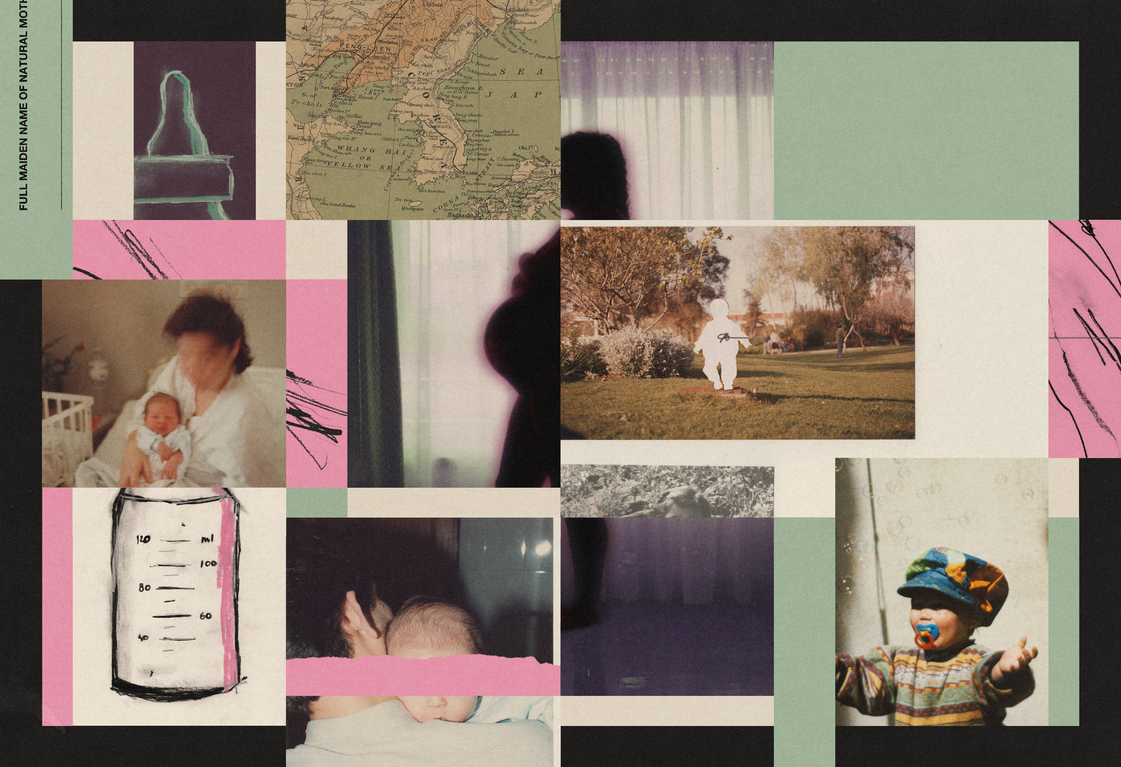
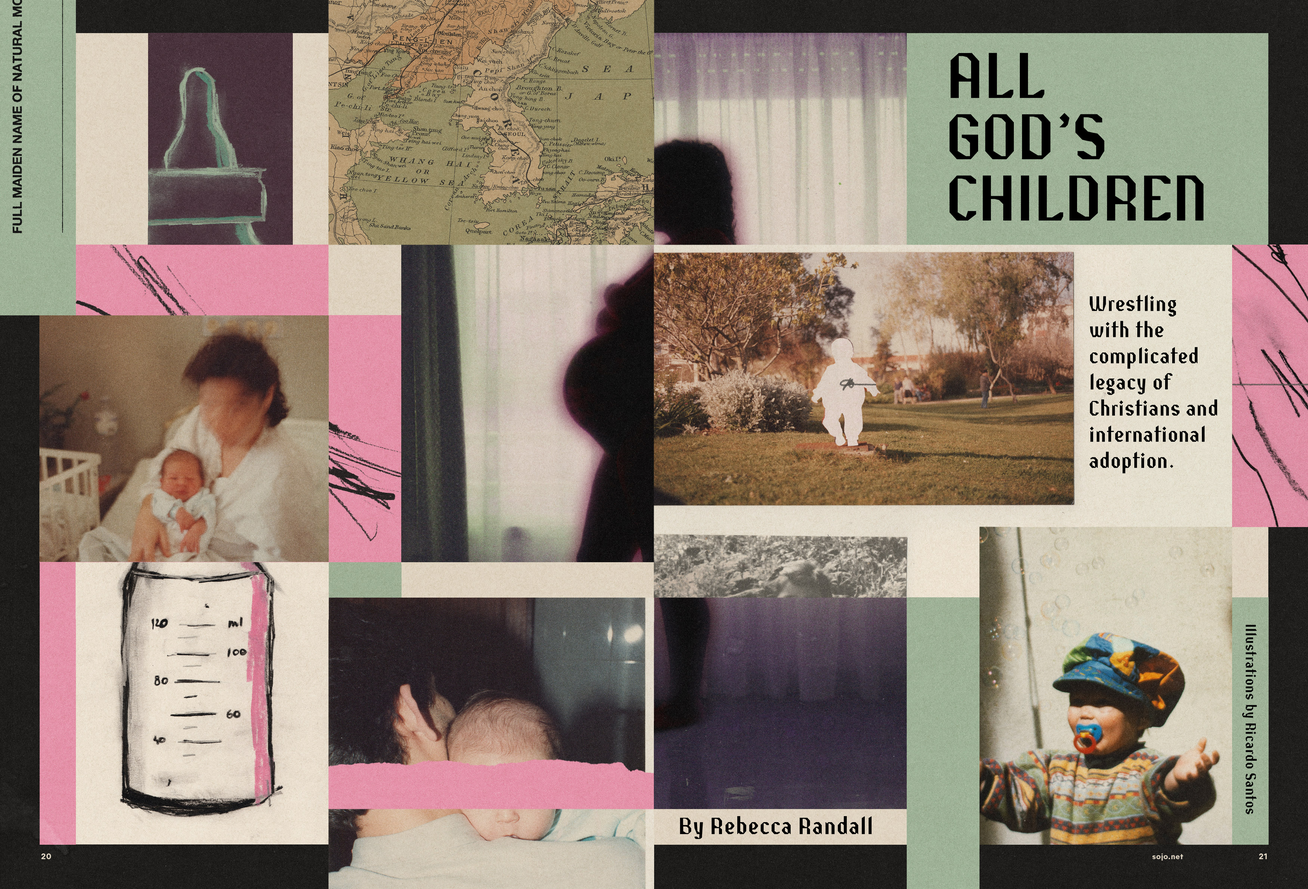
updated sojo-adoption w spreads

Changed region(s): [[0.0, 0.0, 1.0, 1.0], [0.682, 0.8101, 0.713, 0.8413], [0.465, 0.8413, 0.496, 0.8724]]

diff --git a/_projects/sojo-adoption.html b/_projects/sojo-adoption.html
@@ -35,17 +35,18 @@ date: 20230401
       <p class="caption">Opener Spread.</p>
 </div>
 
-<div class="col-12 col-lg-7 offset-lg-5">
+<div class="col-12 col-lg-10">
 
-      <img class="grid-img" src="/images/sojo-adoption-spot-2.jpg" alt="{{ page.title }} illustration">
+      <img class="grid-img" src="/images/sojo-adoption-spread-spot-1.jpg" alt="{{ page.title }} illustration">
+      <p class="caption">Opener Spread.</p>
+</div>
+
+<div class="col-12 col-lg-10 offset-lg-2">
+
+      <img class="grid-img" src="/images/sojo-adoption-spread-spot-2.jpg" alt="{{ page.title }} illustration">
 </div>
 
 <div class="col-12">
-</div>
-
-<div class="col-12 col-lg-5">
-
-      <img class="grid-img" src="/images/sojo-adoption-spot-1.jpg" alt="{{ page.title }} illustration">
 </div>
 
 </div> <!-- close tag of row -->
